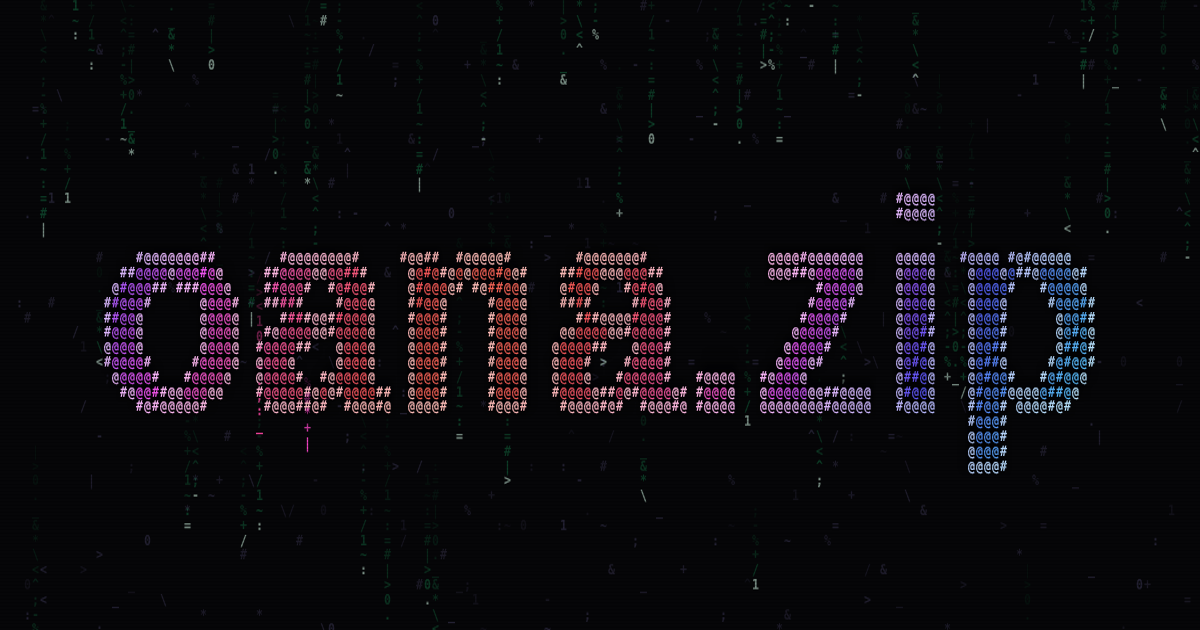
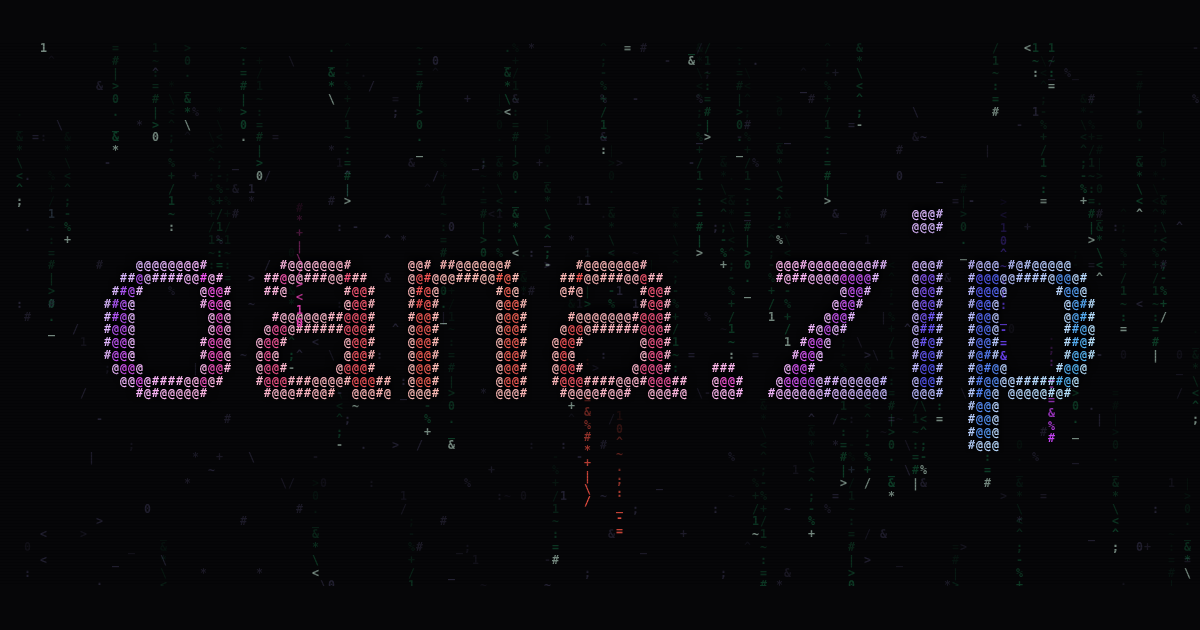
Thin font weight for readable letters; stacked on phones; new preview

diff --git a/index.html b/index.html
@@ -59,7 +59,7 @@ function build(){
   off.width=cols;off.height=rows;
   octx.clearRect(0,0,cols,rows);
   octx.fillStyle="#fff";octx.textAlign="center";octx.textBaseline="middle";
-  const f=s=>"bold "+s+"px Helvetica,Arial,'Liberation Sans','DejaVu Sans',sans-serif";
+  const f=s=>"300 "+s+"px 'Helvetica Neue',Helvetica,Arial,'Liberation Sans','DejaVu Sans',sans-serif";
   const L=W<H?["oana.","zip"]:["oana.zip"],X=1.6;
   let fs=rows*.62;octx.font=f(fs);
   const mw=()=>Math.max.apply(null,L.map(q=>octx.measureText(q).width))*X;
